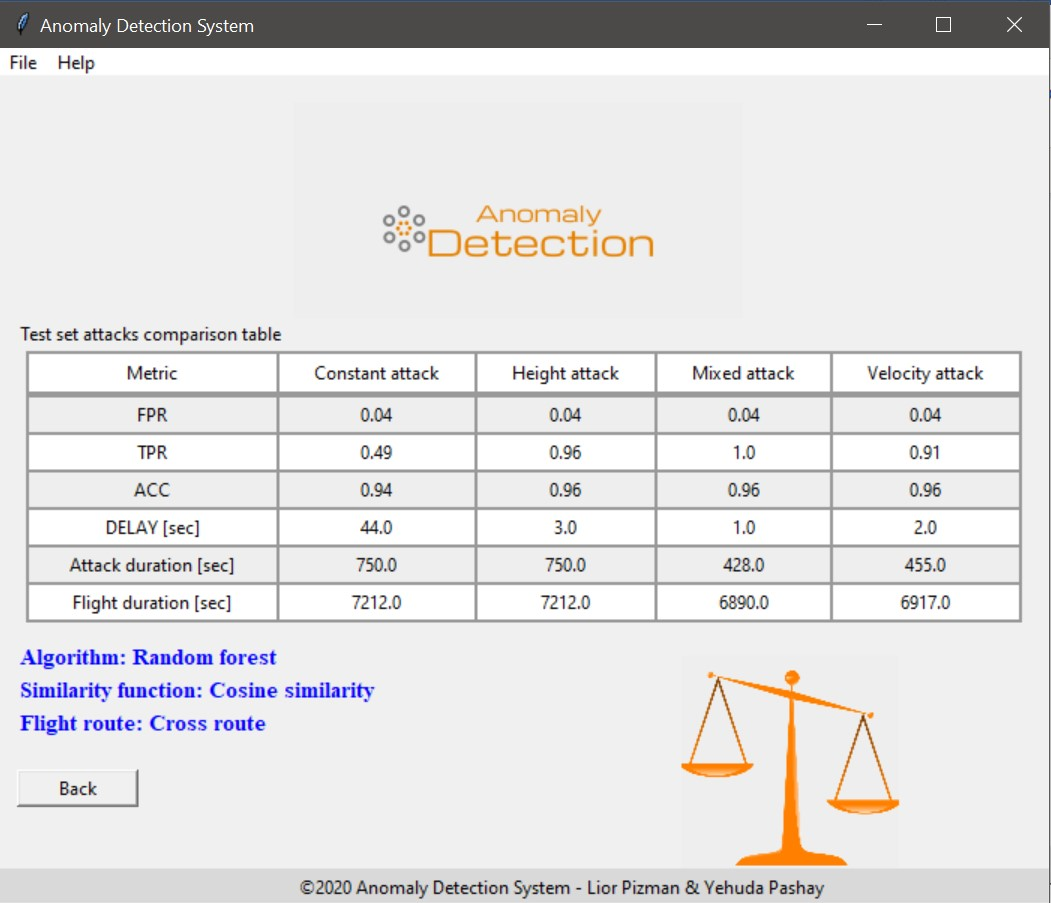
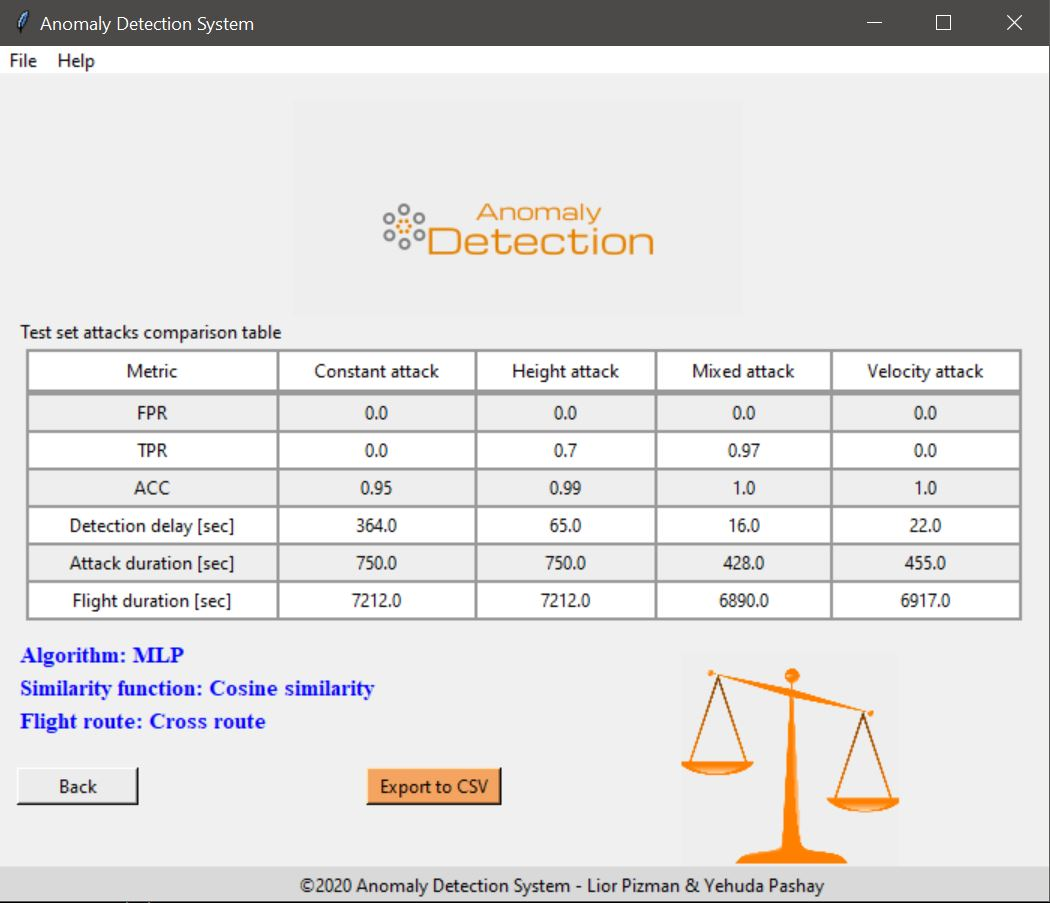
add results plot window image

diff --git a/README.md b/README.md
@@ -131,11 +131,14 @@ Choose similarity functions from the following options<br/>
 Loading model, please wait...<br/>
 <img height=350 width=370 src="utils/images/shared/loadingWindow.JPG">
 
-Choose an algorithm and a flight route in order to get the results<br/>
+Choose an algorithm and a flight route in order to get the results table or image plots<br/>
 <img height=350 width=370 src="utils/images/shared/resultsWindow.JPG">
 
-Choose an algorithm and a flight route in order to get the results<br/>
+Click on 'Export to CSV' button to export the results table<br/>
 <img height=350 width=370 src="utils/images/shared/resultsTableWindow.JPG">
+
+Click on 'Export to PNG' button to export the image plots<br/>
+<img height=350 width=370 src="utils/images/shared/resultsPlotWindow.JPG">
 
 ## Generated Machine Learning Models 
 
